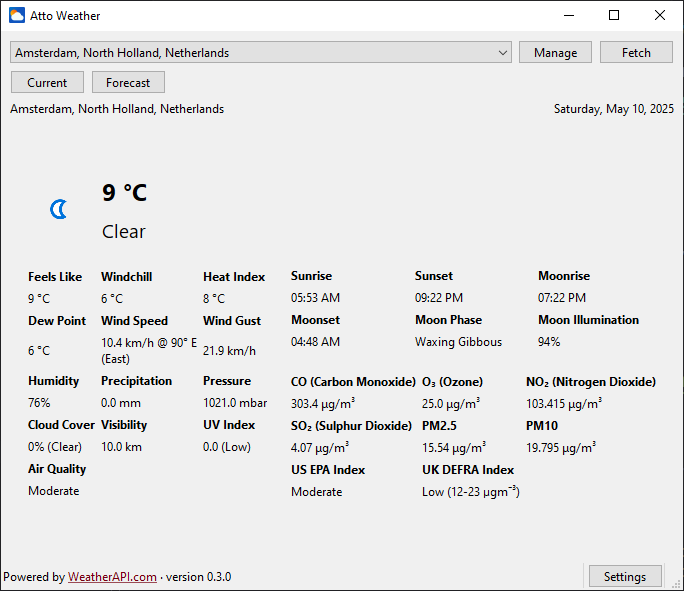
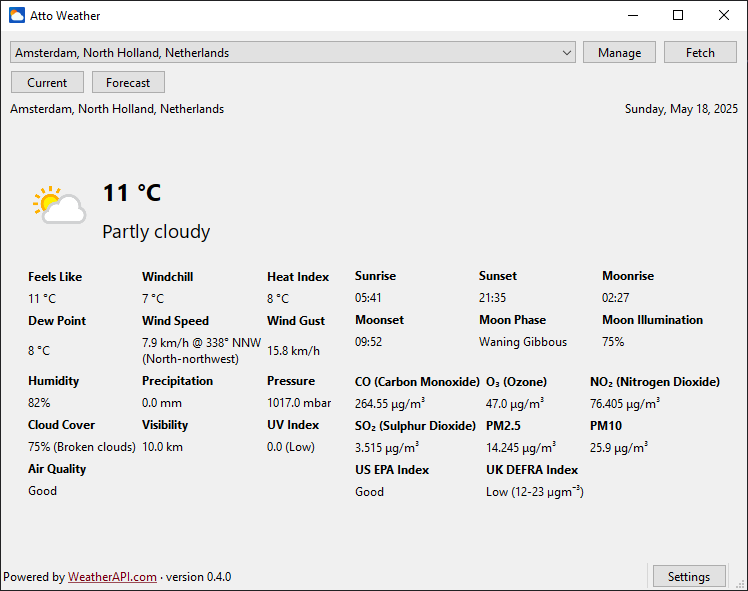
feat: 0.4.0
0.4.0 mainly adds localization tweaks and fixes issues found in 0.3.0.

diff --git a/src/atto_weather/_self.py b/src/atto_weather/_self.py
@@ -1,3 +1,3 @@
 APP_NAME = "Atto Weather"
-APP_VERSION = "0.3.0"
+APP_VERSION = "0.4.0"
 APP_COPYRIGHT = "Copyright © 2025 Ángel Carias"
